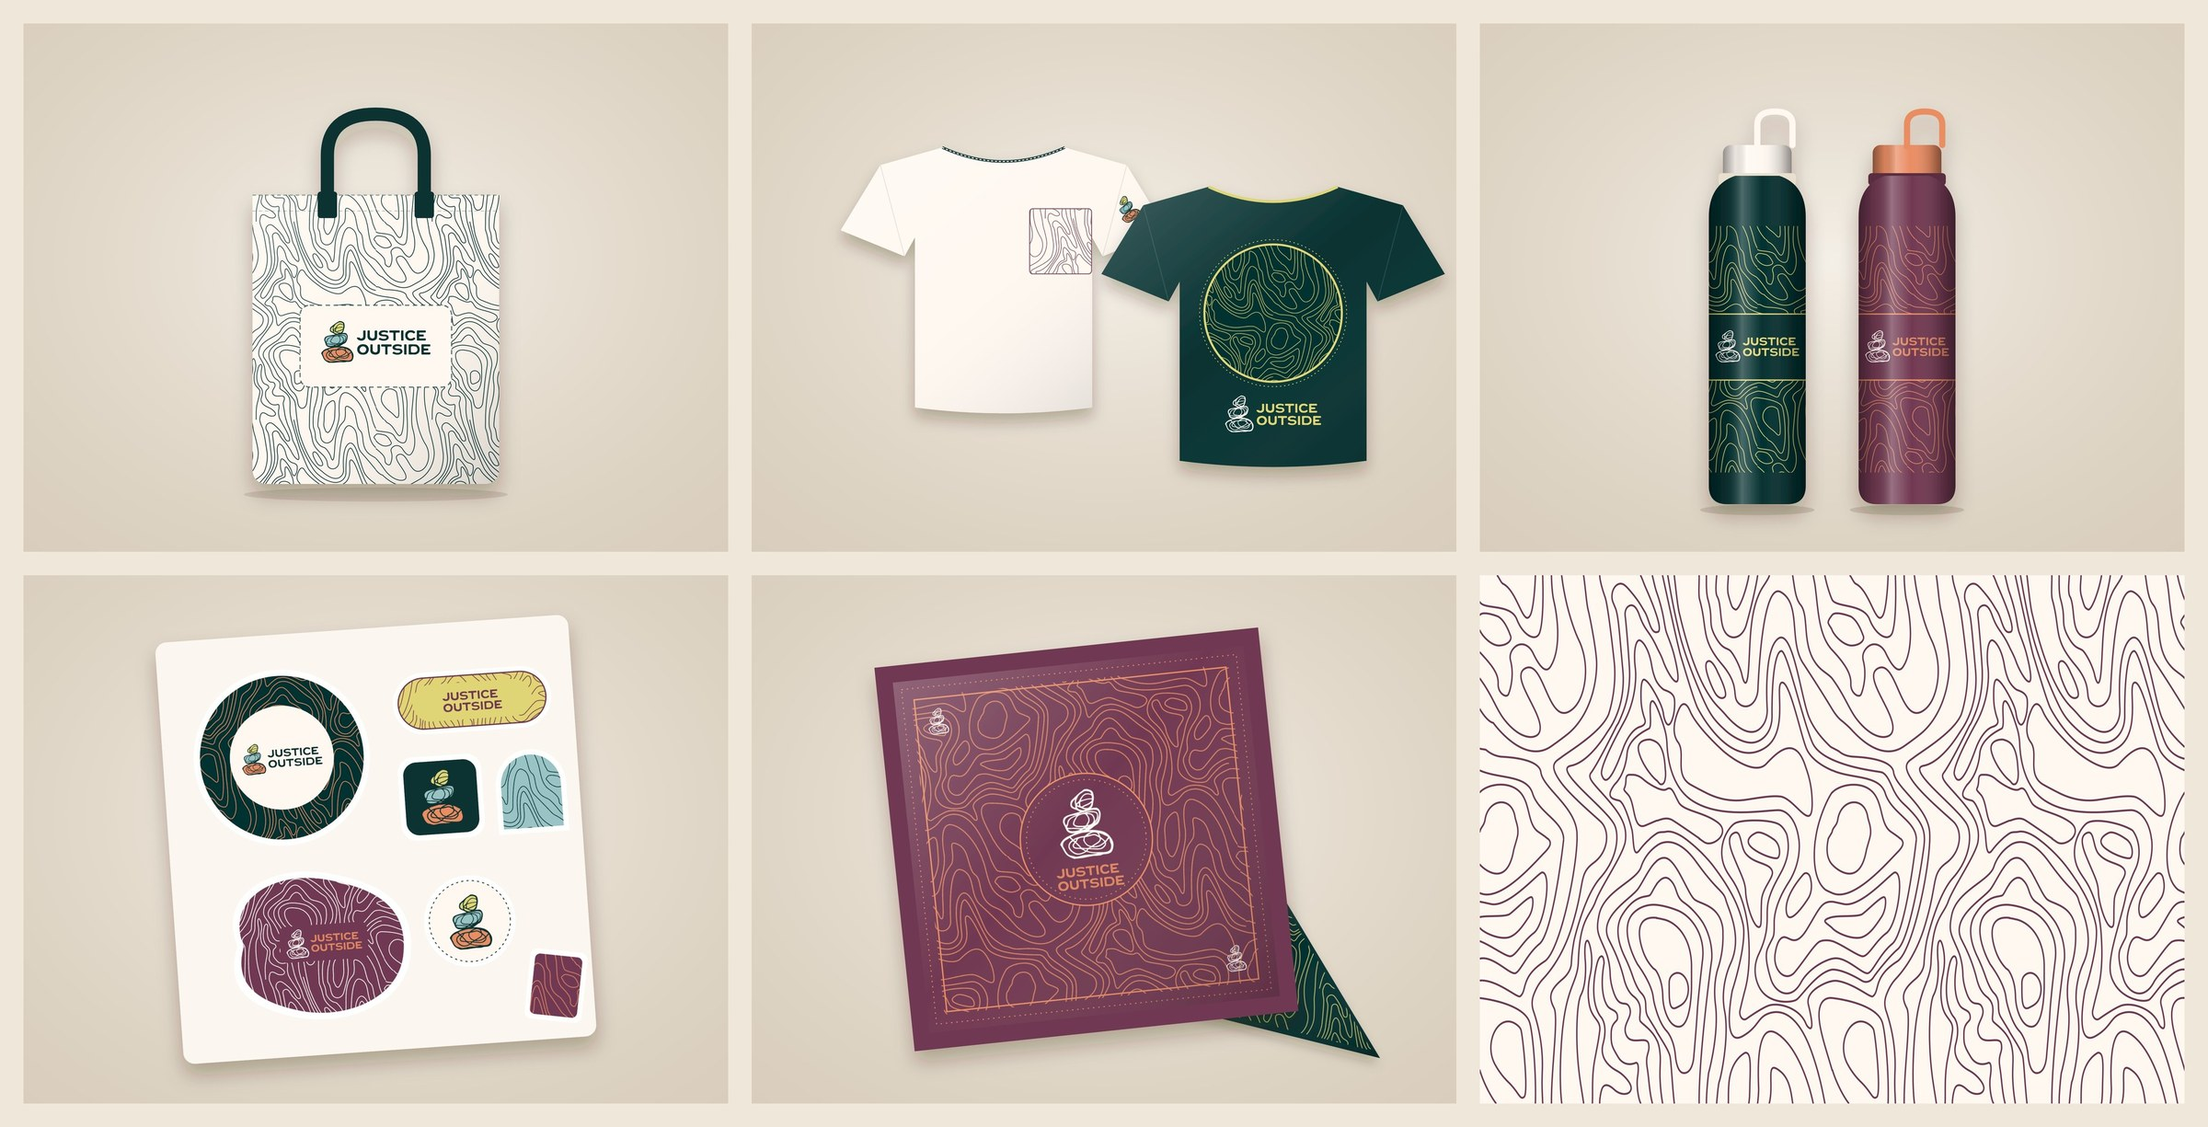
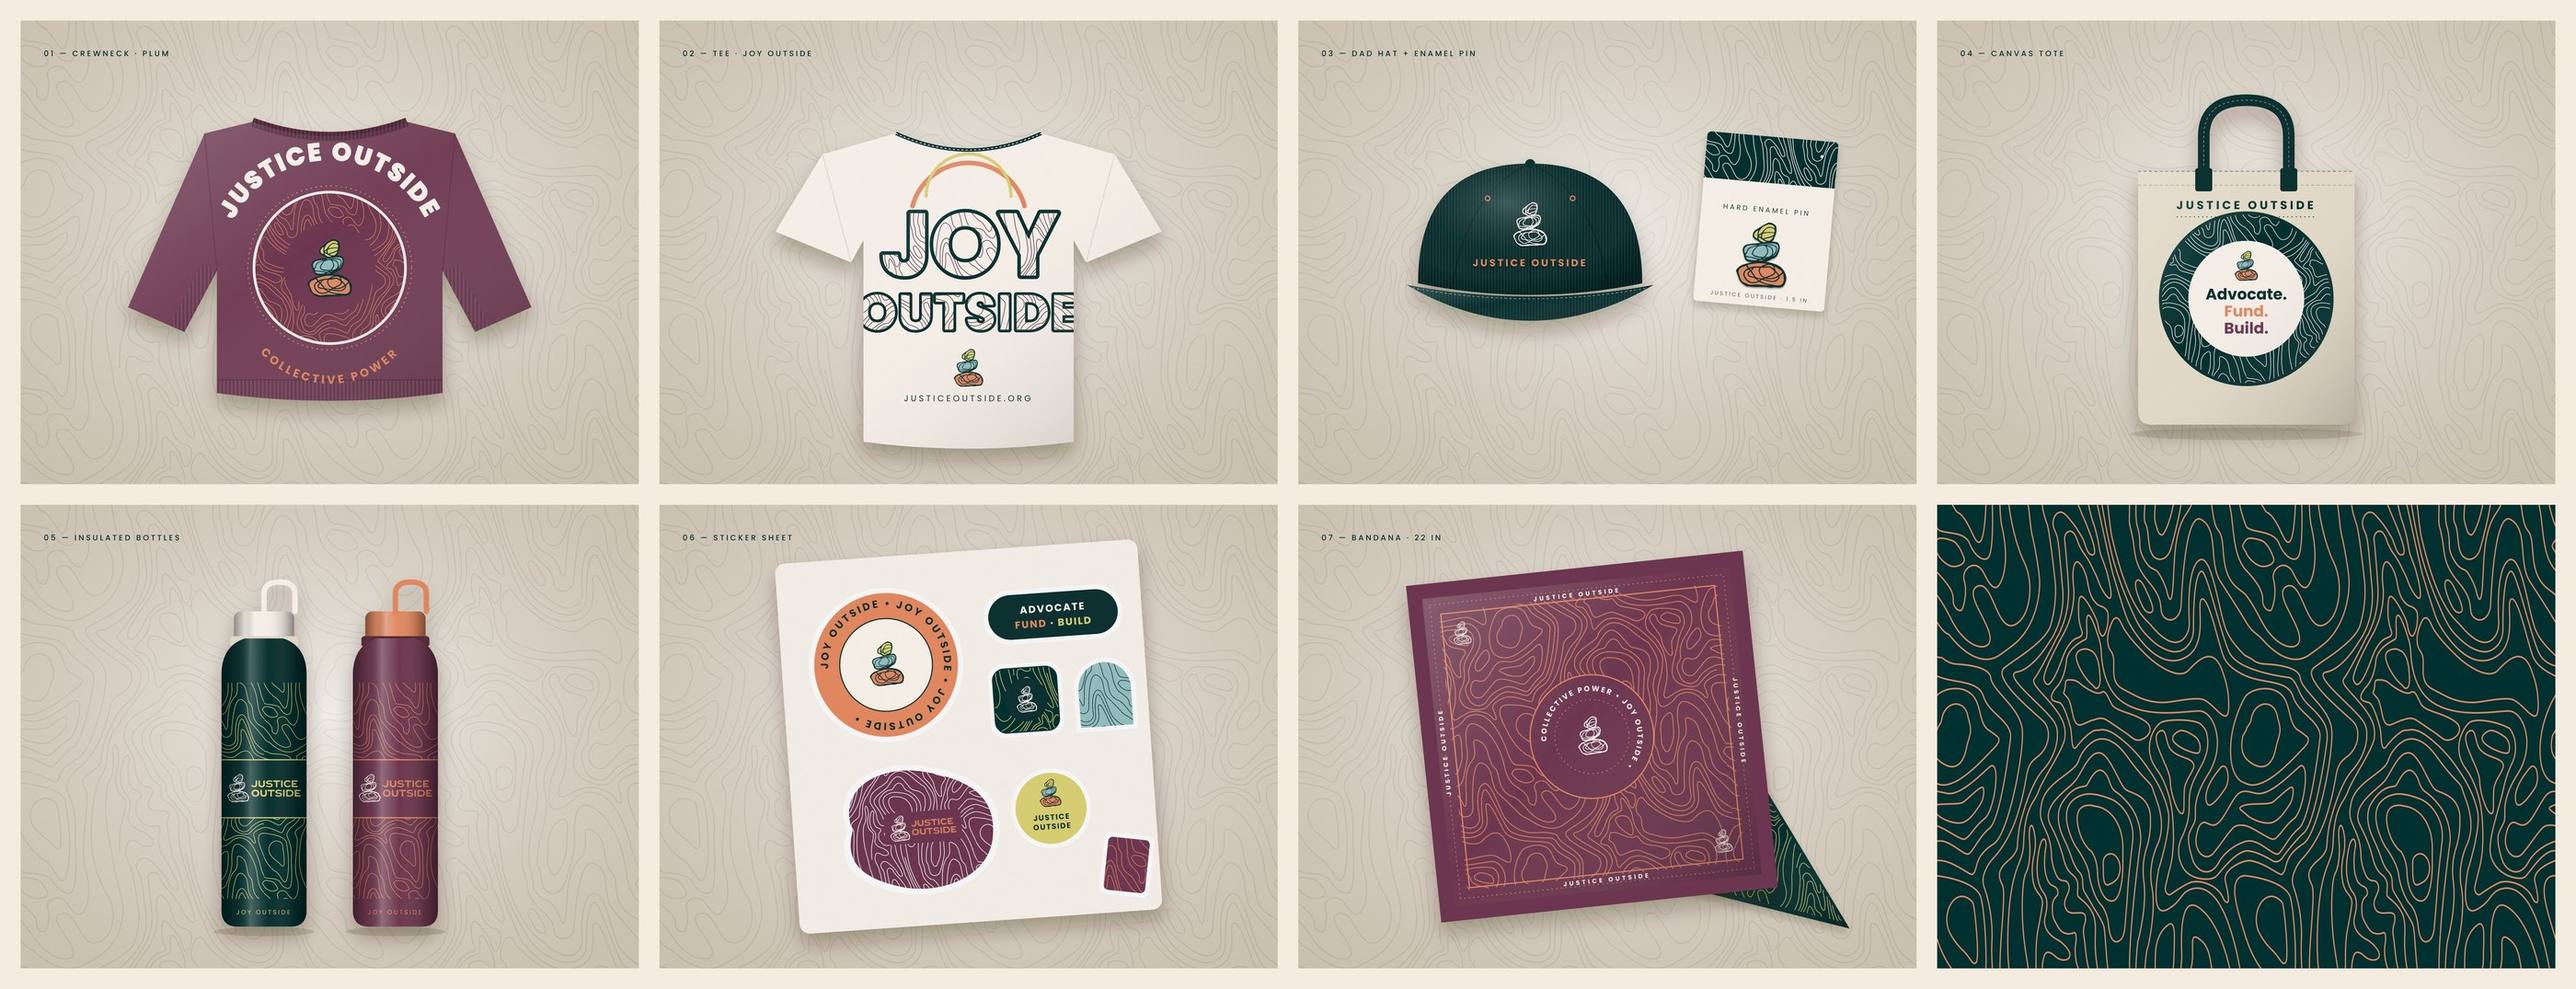
Merch tile: redesigned swag line, seven pieces
Claude-Session: https://claude.ai/code/session_018WtTTL8vv3fxFjCsvYoeKi

diff --git a/index.html b/index.html
@@ -323,7 +323,7 @@ body.lb-open{overflow:hidden}
     </figure>
     <figure class="tile" data-anim="rise" style="--d:100ms">
       <img class="zoom" src="img/work/merch.jpg" data-full="img/full/merch-board.jpg" alt="Justice Outside swag line in the topographic pattern: bandana, tote, tees, bottles, and a sticker sheet" width="1500" height="1000" loading="lazy" decoding="async">
-      <figcaption><span class="t-meta">Pattern &amp; product &middot; Justice Outside</span><strong>The pattern, off the page</strong><span class="t-desc">The topographic lines started as a brand element and turned into the swag line: a bandana, a tote, tees, bottles, and a sticker sheet. I swapped base and line colors across the set so every piece reads as one family. Click to see all five.</span></figcaption>
+      <figcaption><span class="t-meta">Pattern &amp; product &middot; Justice Outside</span><strong>The pattern, off the page</strong><span class="t-desc">The topographic lines started as a brand element and turned into a swag line: a crewneck, a Joy Outside tee, a dad hat and enamel pin, a tote, bottles, a sticker sheet, and a bandana. Base and line colors swap across the set so every piece reads as one family. Click to see all seven.</span></figcaption>
     </figure>
     <figure class="tile" data-anim="rise" style="--d:100ms">
       <img class="zoom" src="img/work/impact-cover.jpg" data-full="img/full/impact-cover.jpg" alt="Cover of the 2025 Impact Report held in two hands" width="1500" height="1000" loading="lazy" decoding="async">
